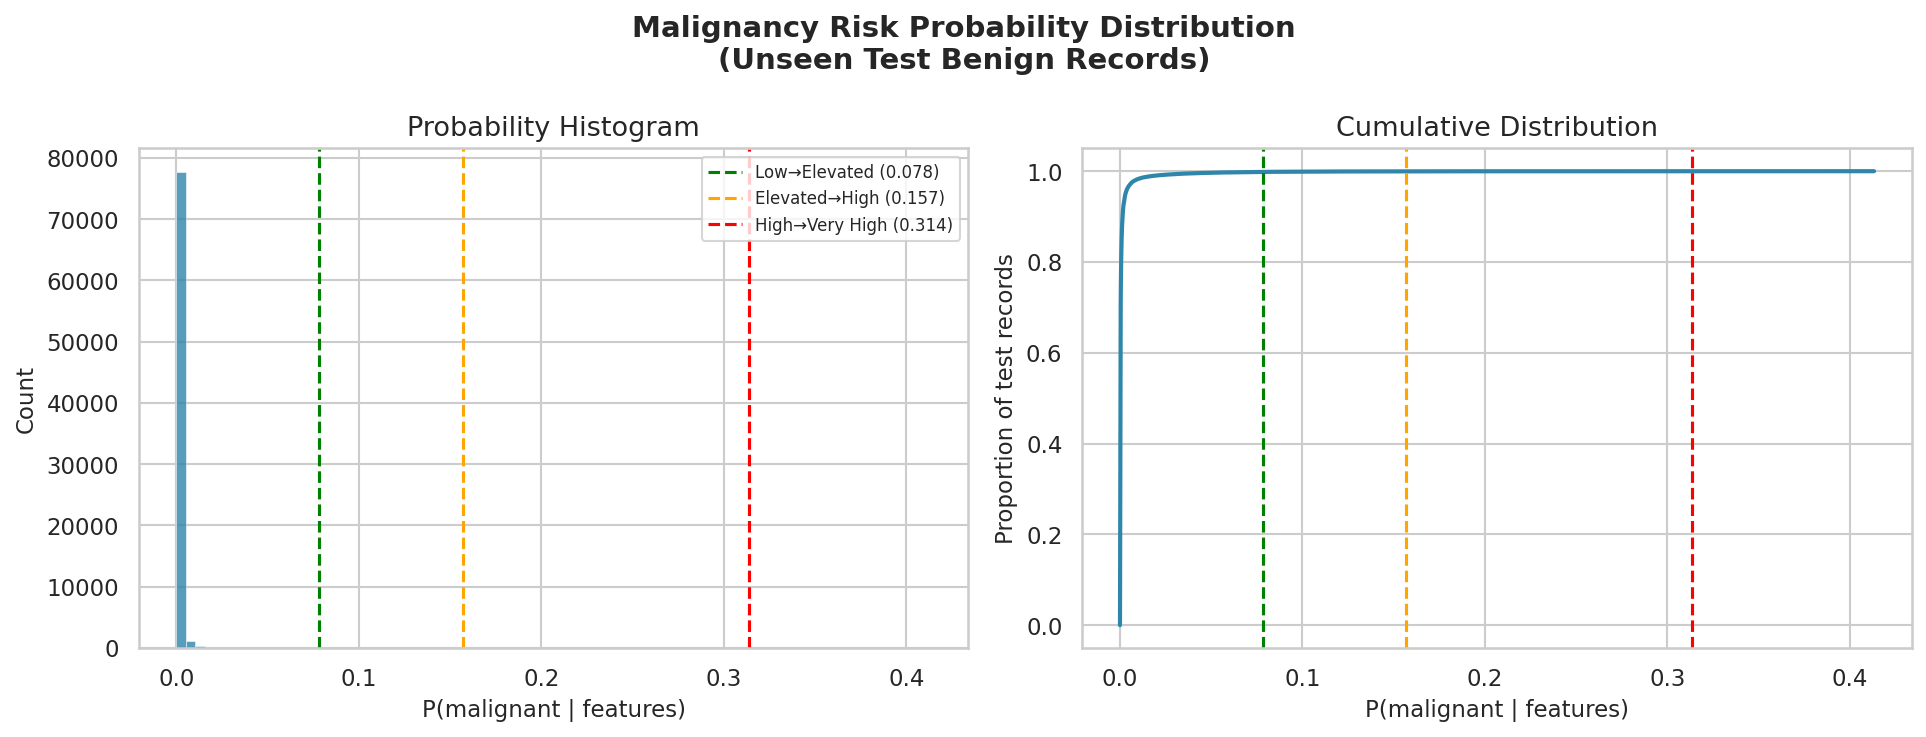
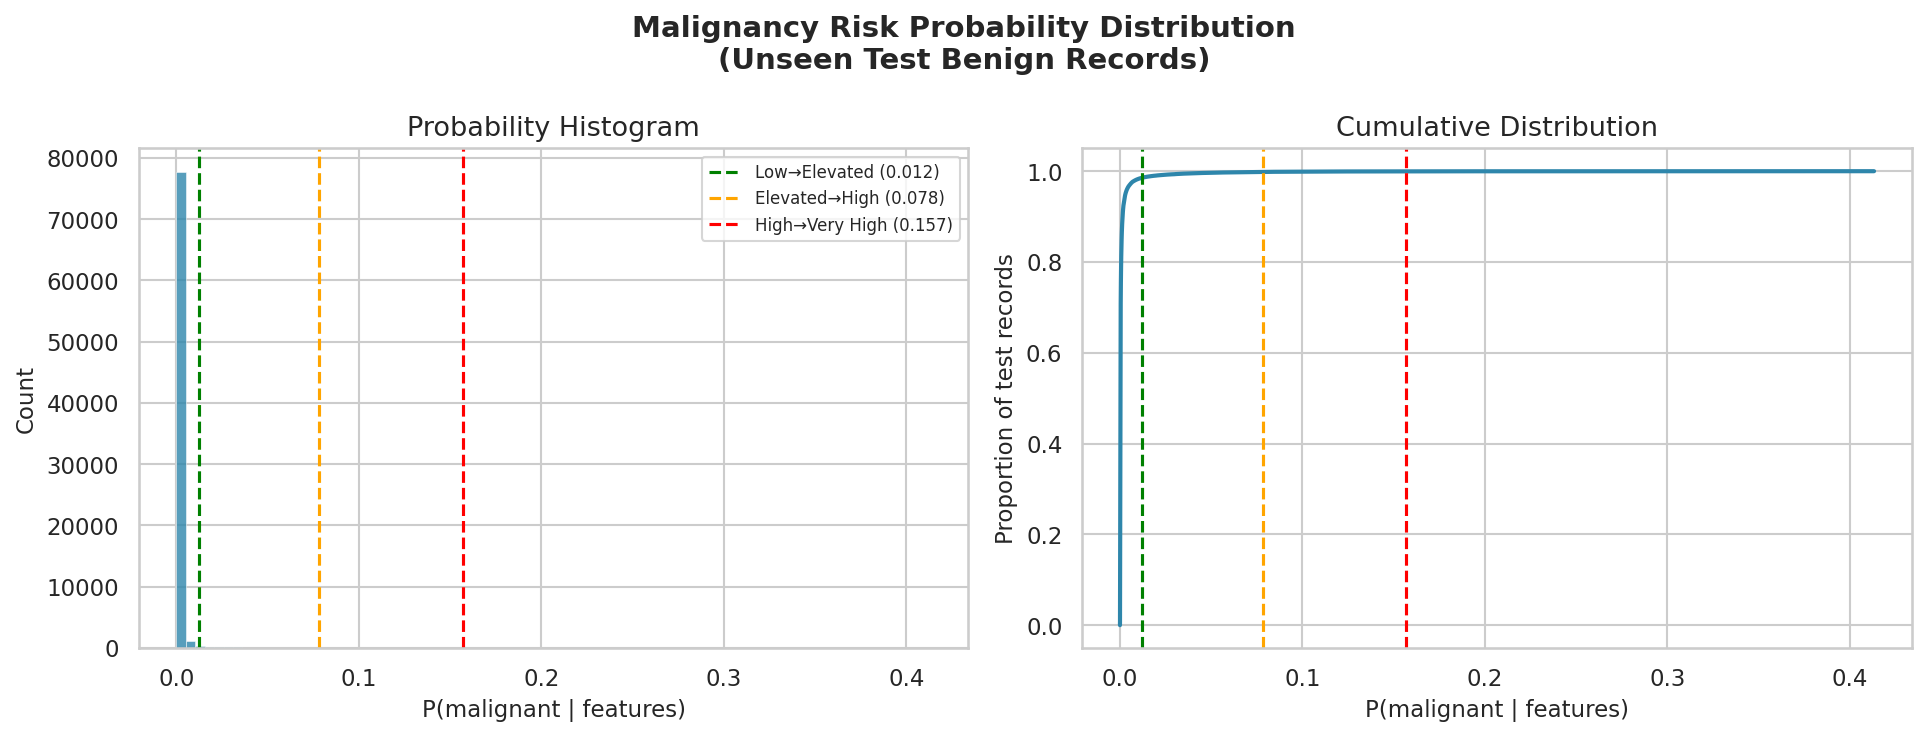
Enhance README and metrics report with setup instructions and screening mode details; add requirements file

Changed region(s): [[0.4673, 0.2185, 0.4984, 0.3121]]

diff --git a/isic_model.py b/isic_model.py
@@ -54,6 +54,7 @@ GRAPH_DIR    = 'graphs'
 DPI          = 150
 N_FOLDS      = 5
 RANDOM_STATE = 42
+TARGET_RECALL = 0.50
 
 COLOR_BENIGN    = '#2E86AB'
 COLOR_MALIGNANT = '#E84855'
@@ -211,6 +212,7 @@ else:
     print("  scale_pos_weight   : disabled  (threshold optimization handles imbalance)")
 print(f"  Validation         : StratifiedKFold (k={N_FOLDS})")
 print(f"  Threshold strategy : Optimal via precision-recall curve")
+print(f"  Screening target   : Recall >= {TARGET_RECALL:.0%}")
 print(f"  Early stopping     : 50 rounds")
 
 
@@ -312,6 +314,17 @@ print(f"  {'STD':<6} {'':>8} {'':>8} {'':>8} {'':>10} "
 df_folds.to_csv(f'{REPORT_DIR}/lgbm_fold_metrics.csv', index=False)
 print(f"\n  Saved: {REPORT_DIR}/lgbm_fold_metrics.csv")
 
+def threshold_for_target_recall(y_true, probs, target_recall):
+    prec_vals, rec_vals, thresholds = precision_recall_curve(y_true, probs)
+    valid_idx = np.where(rec_vals[:-1] >= target_recall)[0]
+
+    if len(valid_idx) == 0:
+        return thresholds[np.argmax(rec_vals[:-1])]
+
+    # Among thresholds that reach the recall target, choose the best precision.
+    best_valid_idx = valid_idx[np.argmax(prec_vals[valid_idx])]
+    return thresholds[best_valid_idx]
+
 # Overall CV metrics
 prec_overall, rec_overall, thresholds_overall = precision_recall_curve(y_train, cv_probs)
 f1_overall_by_threshold = 2 * prec_overall[:-1] * rec_overall[:-1] / (
@@ -320,10 +333,19 @@ f1_overall_by_threshold = 2 * prec_overall[:-1] * rec_overall[:-1] / (
 overall_threshold = thresholds_overall[np.argmax(f1_overall_by_threshold)]
 cv_preds_final    = (cv_probs >= overall_threshold).astype(int)
 
+recall_threshold = threshold_for_target_recall(y_train, cv_probs, TARGET_RECALL)
+cv_preds_recall  = (cv_probs >= recall_threshold).astype(int)
+
 cv_f1   = f1_score(y_train, cv_preds_final, zero_division=0)
 cv_acc  = accuracy_score(y_train, cv_preds_final)
 cv_prec = precision_score(y_train, cv_preds_final, zero_division=0)
 cv_rec  = recall_score(y_train, cv_preds_final, zero_division=0)
+
+recall_f1   = f1_score(y_train, cv_preds_recall, zero_division=0)
+recall_acc  = accuracy_score(y_train, cv_preds_recall)
+recall_prec = precision_score(y_train, cv_preds_recall, zero_division=0)
+recall_rec  = recall_score(y_train, cv_preds_recall, zero_division=0)
+
 try:
     cv_pr = average_precision_score(y_train, cv_probs)
 except Exception:
@@ -332,9 +354,42 @@ except Exception:
 cm_cv    = confusion_matrix(y_train, cv_preds_final)
 tn, fp, fn, tp = cm_cv.ravel()
 
+cm_recall = confusion_matrix(y_train, cv_preds_recall)
+recall_tn, recall_fp, recall_fn, recall_tp = cm_recall.ravel()
+
+target_rows = []
+for target in [0.30, 0.50, 0.70, 0.90]:
+    target_thr = threshold_for_target_recall(y_train, cv_probs, target)
+    target_preds = (cv_probs >= target_thr).astype(int)
+    target_cm = confusion_matrix(y_train, target_preds)
+    target_tn, target_fp, target_fn, target_tp = target_cm.ravel()
+    target_rows.append({
+        'target_recall': target,
+        'threshold': target_thr,
+        'f1': f1_score(y_train, target_preds, zero_division=0),
+        'accuracy': accuracy_score(y_train, target_preds),
+        'precision': precision_score(y_train, target_preds, zero_division=0),
+        'recall': recall_score(y_train, target_preds, zero_division=0),
+        'malignant_caught': target_tp,
+        'benign_flagged': target_fp,
+        'benign_flagged_pct': target_fp / n_benign_train * 100,
+    })
+
+df_recall_targets = pd.DataFrame(target_rows)
+df_recall_targets.to_csv(f'{REPORT_DIR}/lgbm_recall_target_metrics.csv', index=False)
+
 print(f"\n  CV Overall (global F1-optimal threshold={overall_threshold:.4f}):")
 print(f"    F1={cv_f1:.4f}  Acc={cv_acc:.4f}  Prec={cv_prec:.4f}  Rec={cv_rec:.4f}")
 print(f"    Malignant caught: {tp}/{n_malignant_train} ({tp/n_malignant_train*100:.1f}%)")
+
+print(f"\n  CV Screening Mode (target recall={TARGET_RECALL:.0%}, threshold={recall_threshold:.4f}):")
+print(f"    F1={recall_f1:.4f}  Acc={recall_acc:.4f}  "
+      f"Prec={recall_prec:.4f}  Rec={recall_rec:.4f}")
+print(f"    Malignant caught: {recall_tp}/{n_malignant_train} "
+      f"({recall_tp/n_malignant_train*100:.1f}%)")
+print(f"    Benign flagged: {recall_fp}/{n_benign_train} "
+      f"({recall_fp/n_benign_train*100:.1f}%)")
+print(f"    Saved recall tradeoffs: {REPORT_DIR}/lgbm_recall_target_metrics.csv")
 
 
 # =============================================================================
@@ -391,11 +446,12 @@ test_probs = best_model.predict_proba(X_test.values)[:, 1]
 # Reload original (unencoded) test data to save readable output
 df_test_out = pd.read_csv(TEST_FILE)
 df_test_out['lgbm_malignancy_prob'] = test_probs
+df_test_out['screening_flag'] = df_test_out['lgbm_malignancy_prob'] >= recall_threshold
 
 # Risk tier labels based on the CV-optimized operating threshold
-risk_cut_1 = max(float(overall_threshold), 1e-6)
-risk_cut_2 = min(risk_cut_1 * 2, 1.0)
-risk_cut_3 = min(risk_cut_1 * 4, 1.0)
+risk_cut_1 = max(float(recall_threshold), 1e-6)
+risk_cut_2 = max(float(overall_threshold), risk_cut_1 * 1.01)
+risk_cut_3 = min(max(risk_cut_2 * 2, risk_cut_2 + 1e-6), 1.0)
 risk_bins = [0.00, risk_cut_1, risk_cut_2, risk_cut_3, 1.01]
 risk_labels = ['Low', 'Elevated', 'High', 'Very High']
 
@@ -426,8 +482,14 @@ for tier, count in tier_counts.items():
     bar = '█' * int(pct / 2)
     print(f"    {tier:<12} : {count:>8,} ({pct:>5.1f}%)  {bar}")
 
+screening_count = int(df_test_out['screening_flag'].sum())
+screening_pct = screening_count / len(df_test_out) * 100
+print(f"\n  Screening mode flags:")
+print(f"    Threshold      : {recall_threshold:.4f}")
+print(f"    Test flagged   : {screening_count:,}/{len(df_test_out):,} ({screening_pct:.1f}%)")
+
 print(f"\n  Top 20 highest-risk benign records:")
-display_cols = ['lgbm_malignancy_prob', 'risk_tier', 'age_approx',
+display_cols = ['lgbm_malignancy_prob', 'risk_tier', 'screening_flag', 'age_approx',
                 'anatom_site_general', 'clin_size_long_diam_mm',
                 'tbp_lv_nevi_confidence', 'tbp_lv_norm_border']
 display_cols = [c for c in display_cols if c in df_test_out.columns]
@@ -645,7 +707,9 @@ ax.plot(thresholds_range, precs, color=COLOR_BENIGN,    linewidth=2,
 ax.plot(thresholds_range, recs,  color=COLOR_NEUTRAL,   linewidth=2,
         label='Recall', linestyle=':')
 ax.axvline(overall_threshold, color='black', linestyle='--', linewidth=1.5,
-           label=f'Chosen threshold ({overall_threshold:.3f})')
+           label=f'F1 threshold ({overall_threshold:.3f})')
+ax.axvline(recall_threshold, color='red', linestyle='-.', linewidth=1.5,
+           label=f'{TARGET_RECALL:.0%} recall threshold ({recall_threshold:.3f})')
 ax.set_xlabel('Classification Threshold')
 ax.set_ylabel('Score')
 ax.set_title('Threshold Sensitivity', fontweight='bold')
@@ -682,6 +746,8 @@ report_lines = [
     f"  Base imbalance    : {scale_pos_weight:.2f}",
     f"  Validation        : StratifiedKFold (k={N_FOLDS})",
     f"  Threshold         : {overall_threshold:.4f} (global CV F1-optimal threshold)",
+    f"  Screening target  : recall >= {TARGET_RECALL:.0%}",
+    f"  Screening thresh. : {recall_threshold:.4f}",
     "",
     "CROSS-VALIDATION RESULTS (on training set)",
     f"  {'Fold':<6} {'F1':>8} {'Accuracy':>10} {'Precision':>11} {'Recall':>8} {'PR-AUC':>8}",
@@ -709,11 +775,35 @@ report_lines += [
     f"  PR-AUC    : {cv_pr:.4f}",
     f"  Malignant caught: {tp}/{n_malignant_train} ({tp/n_malignant_train*100:.1f}%)",
     "",
+    f"SCREENING MODE (target recall >= {TARGET_RECALL:.0%})",
+    f"  Threshold        : {recall_threshold:.4f}",
+    f"  F1               : {recall_f1:.4f}",
+    f"  Accuracy         : {recall_acc:.4f}",
+    f"  Precision        : {recall_prec:.4f}",
+    f"  Recall           : {recall_rec:.4f}",
+    f"  Malignant caught : {recall_tp}/{n_malignant_train} ({recall_tp/n_malignant_train*100:.1f}%)",
+    f"  Benign flagged   : {recall_fp}/{n_benign_train} ({recall_fp/n_benign_train*100:.1f}%)",
+    "",
+    "RECALL TARGET TRADEOFFS",
+    f"  {'Target':<8} {'Thresh':>9} {'F1':>8} {'Prec':>8} {'Recall':>8} {'Benign flagged':>16}",
+    "  " + "-"*66,
+]
+
+for _, row in df_recall_targets.iterrows():
+    report_lines.append(
+        f"  {row['target_recall']:<8.0%} {row['threshold']:>9.4f} "
+        f"{row['f1']:>8.4f} {row['precision']:>8.4f} {row['recall']:>8.4f} "
+        f"{int(row['benign_flagged']):>8,} ({row['benign_flagged_pct']:>5.1f}%)"
+    )
+
+report_lines += [
+    "",
     "TEST SET RESULTS (unseen benign records)",
     f"  Records scored : {n_test:,}",
     f"  Prob mean      : {test_probs.mean():.4f}",
     f"  Prob median    : {np.median(test_probs):.4f}",
     f"  Prob max       : {test_probs.max():.4f}",
+    f"  Screening flags: {screening_count:,}/{len(df_test_out):,} ({screening_pct:.1f}%)",
     "",
     "RISK TIER DISTRIBUTION (test set)",
 ]
@@ -759,8 +849,15 @@ print(f"""
     CV PR-AUC    : {cv_pr:.4f}
     Malignant caught (CV) : {tp}/{n_malignant_train} ({tp/n_malignant_train*100:.1f}%)
 
+  SCREENING MODE ({TARGET_RECALL:.0%} recall target):
+    Threshold       : {recall_threshold:.4f}
+    Recall          : {recall_rec:.4f}
+    Precision       : {recall_prec:.4f}
+    Benign flagged  : {recall_fp:,}/{n_benign_train:,} ({recall_fp/n_benign_train*100:.1f}%)
+
   TEST SET OUTPUT:
     {n_test:,} unseen benign records scored and ranked
+    Screening flagged: {screening_count:,} ({screening_pct:.1f}%)
     Saved to: {REPORT_DIR}/benign_risk_predictions.csv
 
   GRAPHS SAVED ({len(saved_graphs)} files):""")

diff --git a/README.md b/README.md
@@ -1,3 +1,24 @@
 # melanoma-feature-analysis
 
-1. Run isic_data_prep.py
+## Setup
+
+Create and use a local virtual environment:
+
+```bash
+python -m venv .venv
+source .venv/bin/activate
+python -m pip install -r requirements.txt
+```
+
+## Run
+
+```bash
+python isic_data_prep.py
+python isic_model.py
+```
+
+If you do not activate the virtual environment, run the model with:
+
+```bash
+.venv/bin/python isic_model.py
+```